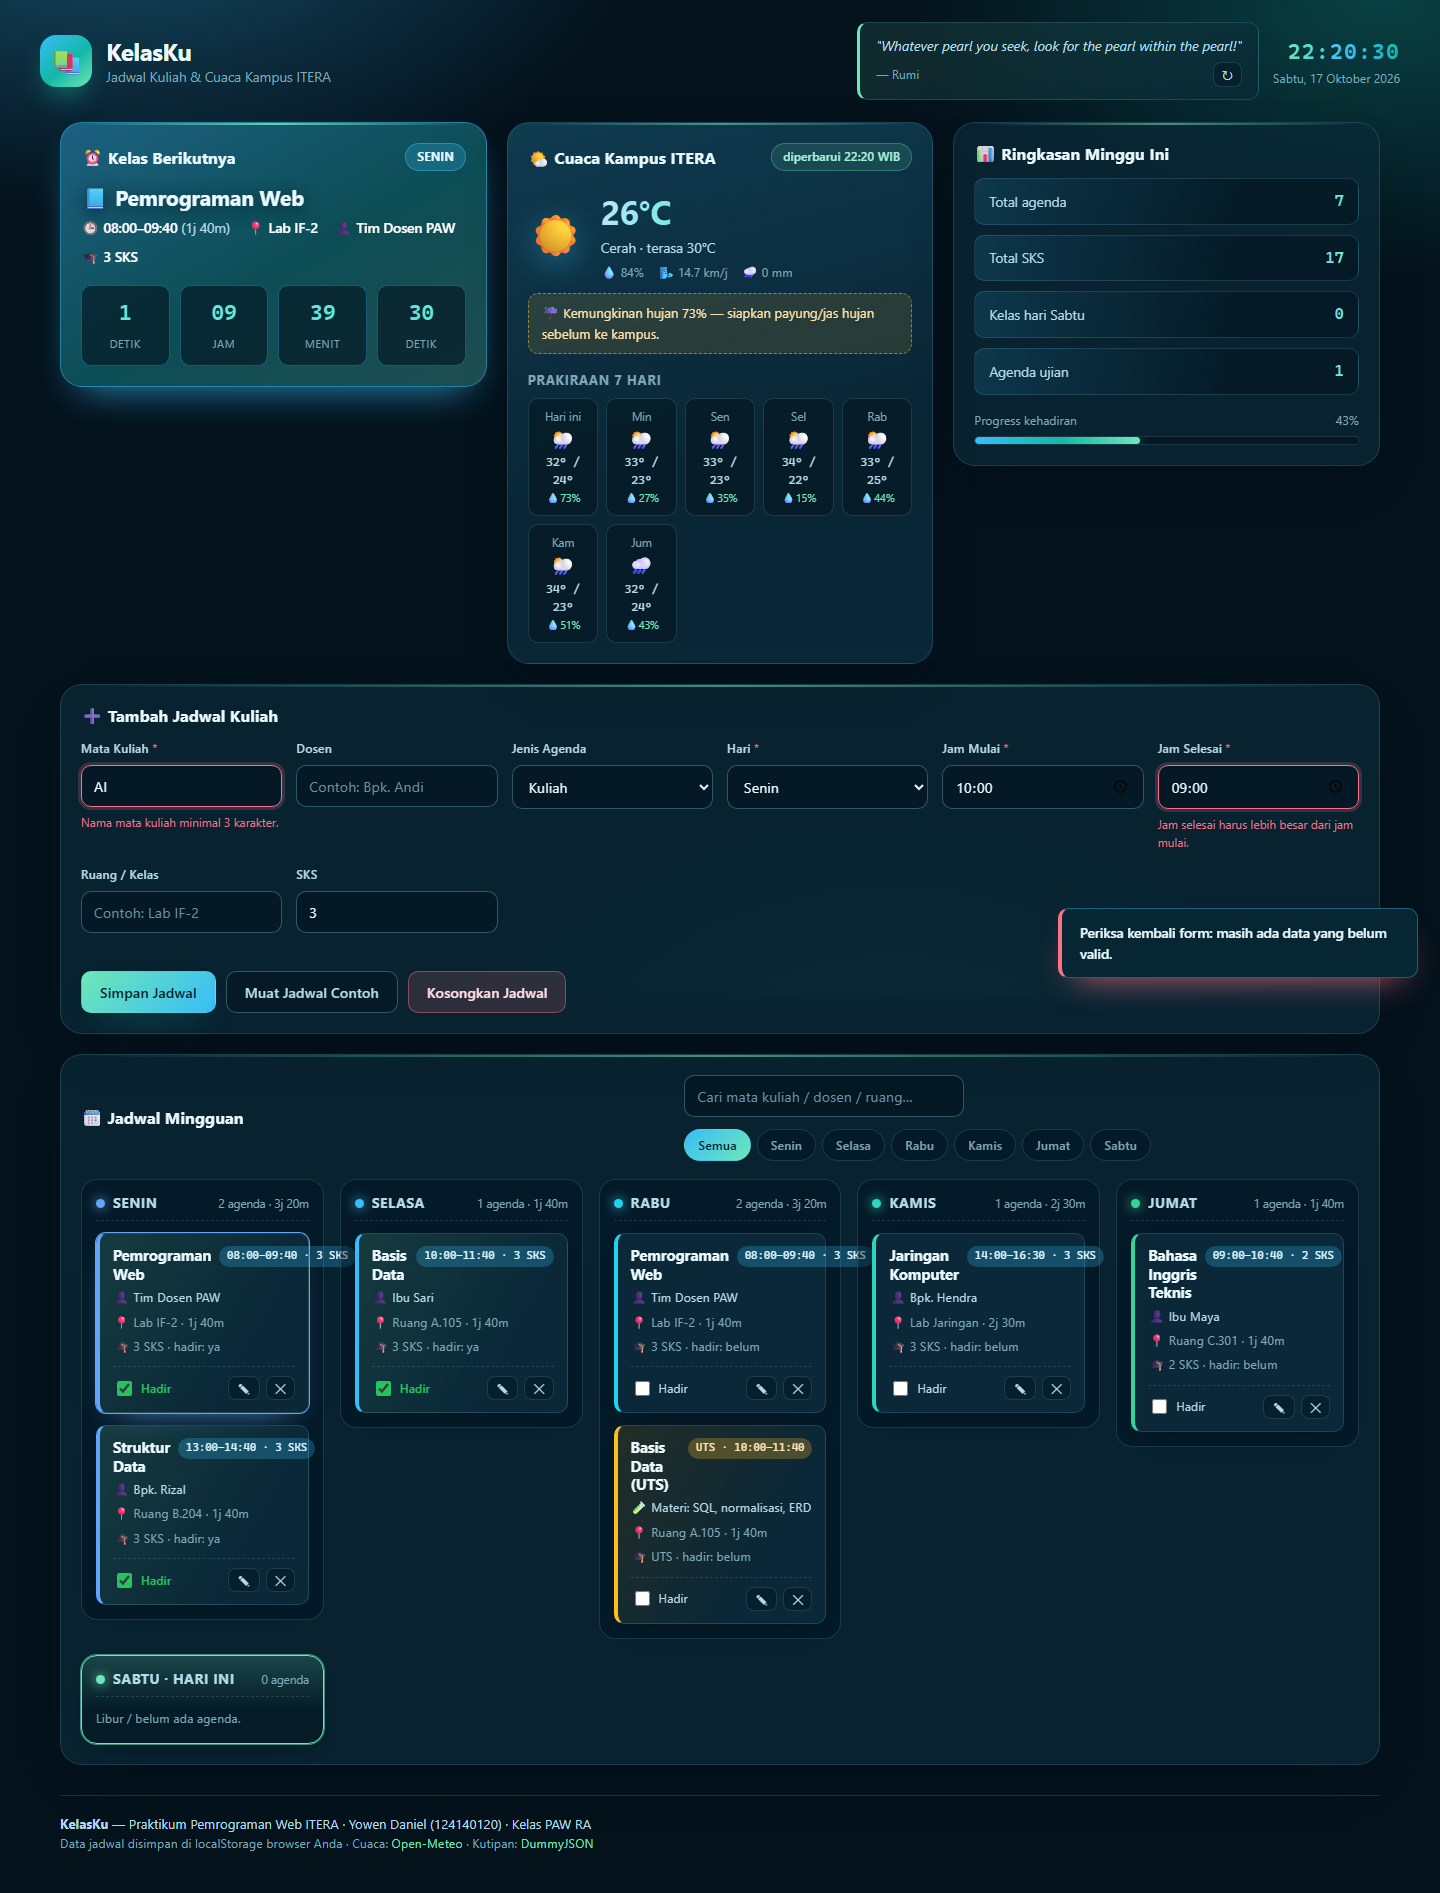
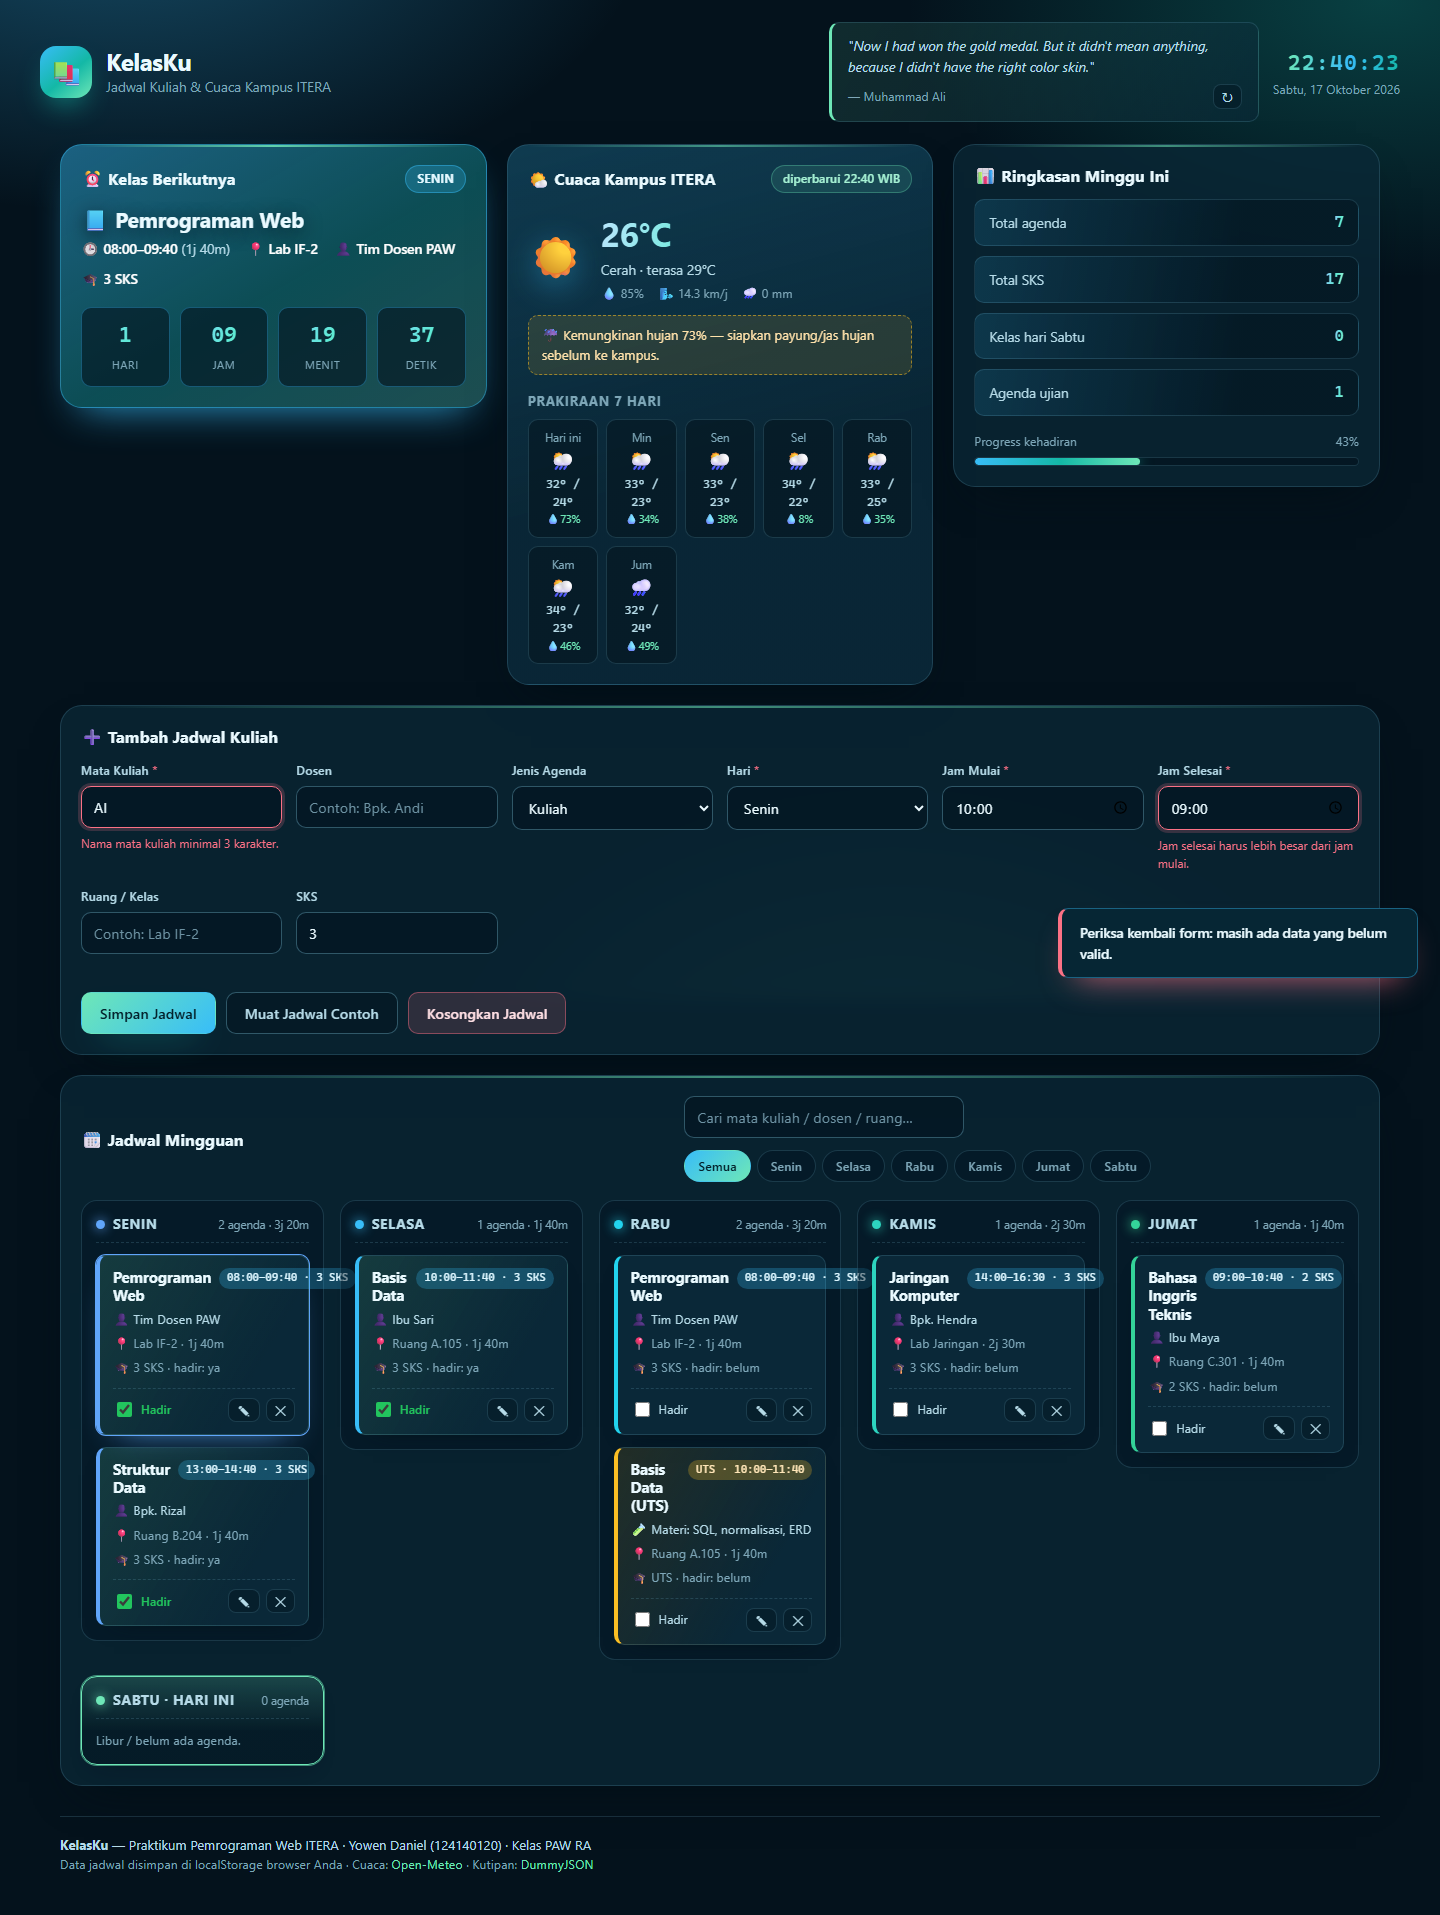
Perbaiki label countdown: hari tidak lagi tertulis detik (:last-child tidak boleh dipakai dari elemen induk) + screenshot ulang

diff --git a/YowenDaniel_124140120_pertemuan2/script.js b/YowenDaniel_124140120_pertemuan2/script.js
@@ -514,7 +514,7 @@ class DashboardApp {
     els.cdHours.textContent = String(hours).padStart(2, '0');
     els.cdMinutes.textContent = String(minutes).padStart(2, '0');
     els.cdSeconds.textContent = String(seconds).padStart(2, '0');
-    els.countdown.querySelector('div:last-child small').textContent = ongoing ? 'detik (sisa)' : 'detik';
+    els.countdown.lastElementChild.querySelector('small').textContent = ongoing ? 'detik (sisa)' : 'detik';
   }
 
   /* ---------- 4i. Render: cuaca (Open-Meteo) ---------- */
